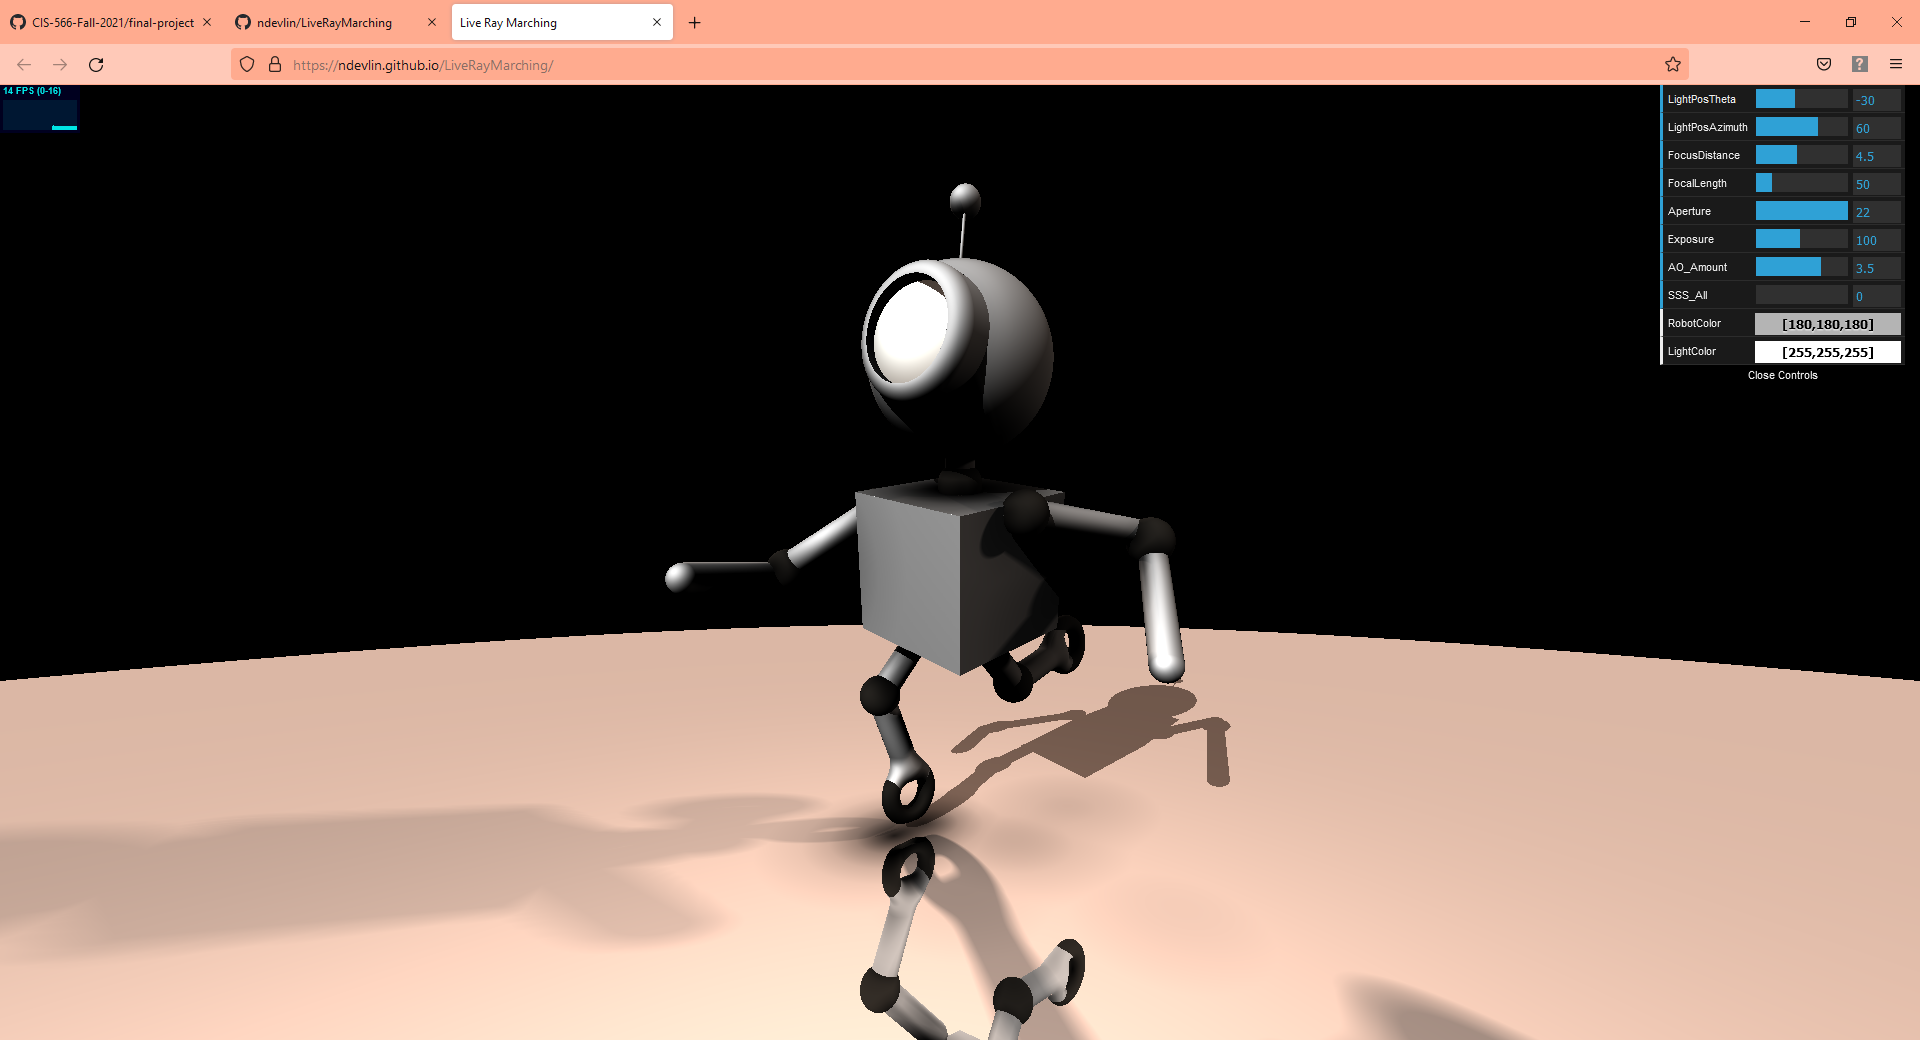
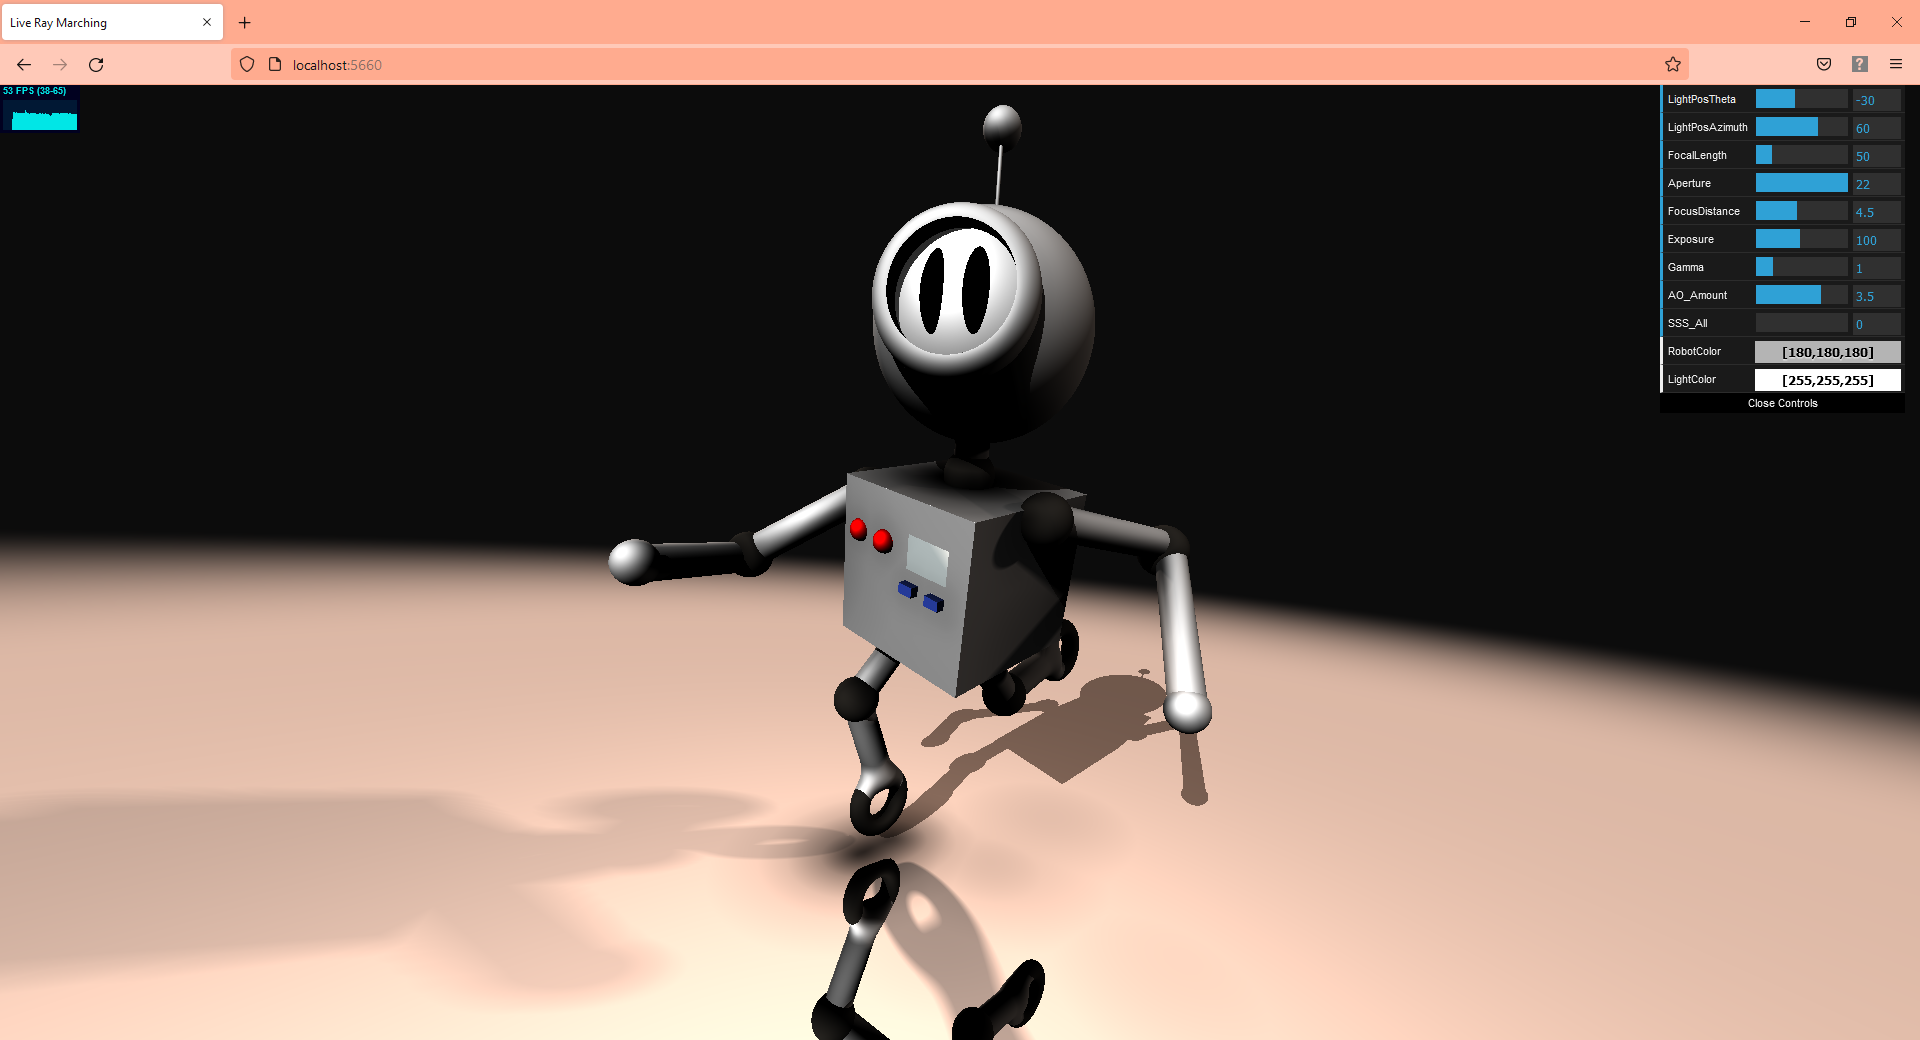
Updated Documentation

diff --git a/README.md b/README.md
@@ -10,9 +10,13 @@
 
 ## Project Information
 
-This project uses Ray Marching and Signed Distance Functions to render a scene in real-time using only mathematical functions. There is no actual geometry in the scene other than a quad that the scene is rendered upon. Each pixel ray-marches forward to interact with functions corresponding with each piece of geometry in the scene to determine which piece of geometry is closest to the camera. A number of rendering effects are calculated on top of this. These include Blinn-Phong reflection, specular reflection, sub-surface scattering, ambient occlusion, and more. Hard and soft shadows, depth of field, and more are also created using algorithms uniquely appropriate for an SDF scene. 
+This project uses Ray Marching and Signed Distance Functions to render a scene in real-time using only mathematical functions. There is no actual geometry in the scene other than a quad that the scene is rendered upon. Each pixel ray-marches forward to interact with functions corresponding with each piece of geometry in the scene to determine which piece of geometry is closest to the camera. A number of rendering effects are calculated on top of this. These include Blinn-Phong reflection, specular reflection, sub-surface scattering, ambient occlusion, and more. UV mapped textures, Hard and soft shadows, depth of field, and more are also created using algorithms uniquely appropriate for an SDF scene. Check out a live demo using the link above!
 
 This project was created using TypeScript, WebGL, and GLSL. Visual Studio Code, Node.js, and Dat.gui were also utilized.
+
+The SDFs were modeled off of a Robot character I modeled, rigged, and lit in the traditional manner using Maya: 
+
+![](images/RobotReference.jpg)
 
 
 ## User Details
@@ -34,7 +38,7 @@ In addition, there are a number of user-controllable sliders:
 - LightColor: Use a Color Picker to select the color of the Key Light
 
 
-Notes: For reference, the diameter of the robot's head is about 1 unit. By default, only the robot's face uses Sub-Surface Scattering. 
+Notes: For reference, the diameter of the robot's head is about 1 unit. By default, only the robot's face and the small panel on the chest use Sub-Surface Scattering. 
 
 ### Demo Images:
 
@@ -57,12 +61,18 @@ Notes: For reference, the diameter of the robot's head is about 1 unit. By defau
 
 ![](images/Reflections.png)
 
+
 ### Modifiable Color:
 
 ![](images/ColorChange.png)
 
 
+### Gamma:
+![](images/Gamma.png)
+
+
 ## Implementation Details:
+Selected information about various algorithms and challenges overcome in implementing various features
 
 - Lens Controls: 
     Enabling the creation of "real" camera controls required a few different techniques. In order to make it work, I added an additional render pass. To begin with, I needed to set up a Post-Processing framework with WebGL. The original ray-marched scene is first rendered and stored to a texture using a Frame Buffer. Depth information is stored to to the alpha channel since all elements in the scene are opaque. Since the first render pass renders everything on a single-pixel basis, each pixel doesn't have any information about it's neighboring pixels. The second pass allows access to the whole image. The second shader reads from the texture to sample neighboring pixels to accomplish a Gaussian blur. This is interpolated according to the depth information stored in the depth channel combined with the FocusDistance value between a fully blurry image and an un-blurred image. This gives the effect of a shallow depth of field. This result is interpolated with an un-blurry image according to the Aperture parameter to simulate a shallower or less shallow depth of field per the user's preference.
@@ -72,7 +82,19 @@ Notes: For reference, the diameter of the robot's head is about 1 unit. By defau
 
 - SubSurface Scattering:
     The SubSurface Scattering effect is modeled off of the algorithm given here: https://colinbarrebrisebois.com/2011/03/07/gdc-2011-approximating-translucency-for-a-fast-cheap-and-convincing-subsurface-scattering-look/ Essentially, the algorithm approximates the thickness of the object at a point by running ambient occlusion on the interior of the object. Thus, points that are near other geometry (and thus in an AO pass would be occluded) are marked as thin, whereas those that are not are marked thick. This information is then used in combination with the information about the light direction and viewing angle to calculate a highlight, in a manner not dissimilar to a Blinn-Phong highlight.
-    
+
+- Reflections:
+    To calculate reflections, a special reflective material is indicated. If an object is specified as using this material, then in the color calculation step of the algorithm, a ray is shot out to re-march originating at the original intersection location and heading in a direction calculated based on the camera's angle with the surface.
+
+- UV Mapping:
+    I created a procedural texture for the robot's face that mathematically describes two ellipses that create the robot's eyes. This texture is then mapped to the robot's face using a UV Mapping function that takes in the position on the sphere and returns the corresponding UV coordinates.
+
+- Tone Mapping:
+    Gamma correction and Exposure controls are used to allow the user to modify the contrast and the total brightness of the scene to compensate for different light colors, light angles, etc.
+
+- User Controls:
+    Dat.gui is utilized to take in input from the user in real time. This is then piped through WebGL to the shaders where they can modify the image on a per-pixel basis. Beyond the features described above, the user can also control the position and color of the Key light and the Robot's albedo color.
+
 
 
 ## Results
@@ -88,6 +110,7 @@ I also added a few additional bonus features to the project, including
 - Exposure
 - Modifiable Focal Length
 - Gamma Correction
+- UV Mapping, procedural textures
 - Interactive User Controls
 
 I added interactive user controls to enable the user to modify:
